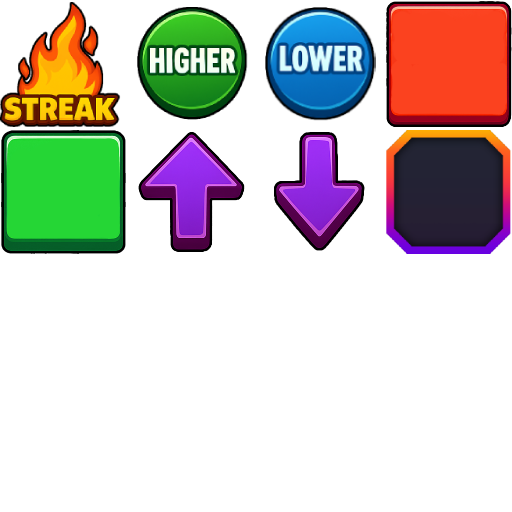
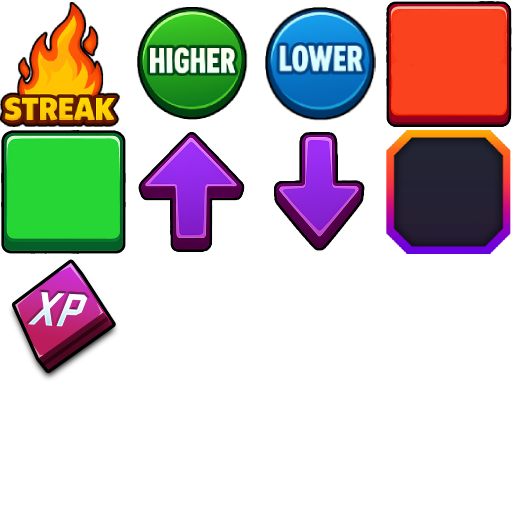
updated sprite sheet

Changed region(s): [[0.0, 0.5, 0.25, 0.75]]

diff --git a/src/scenes/Preload.ts b/src/scenes/Preload.ts
@@ -18,11 +18,6 @@ export default class Preload extends Phaser.Scene {
 
 	editorCreate(): void {
 
-		// guapen
-		const guapen = this.add.image(505.0120544433594, 360, "guapen");
-		guapen.scaleX = 0.32715486817515643;
-		guapen.scaleY = 0.32715486817515643;
-
 		// progressBar
 		const progressBar = this.add.rectangle(553.0120849609375, 361, 256, 20);
 		progressBar.setOrigin(0, 0);
@@ -34,11 +29,6 @@ export default class Preload extends Phaser.Scene {
 		progressBarBg.setOrigin(0, 0);
 		progressBarBg.fillColor = 14737632;
 		progressBarBg.isStroked = true;
-
-		// loadingText
-		const loadingText = this.add.text(552.0120849609375, 329, "", {});
-		loadingText.text = "Loading...";
-		loadingText.setStyle({ "color": "#e0e0e0", "fontFamily": "arial", "fontSize": "20px" });
 
 		this.progressBar = progressBar;
 

diff --git a/src/scenes/Gameplay.ts b/src/scenes/Gameplay.ts
@@ -125,9 +125,9 @@ export default class Gameplay extends Phaser.Scene {
 		streak.scaleY = 1;
 
 		// currency_hyve_xp_3d_1
-		const currency_hyve_xp_3d_1 = this.add.image(34, 34, "currency_hyve_xp_3d_1");
-		currency_hyve_xp_3d_1.scaleX = 0.09017107382001535;
-		currency_hyve_xp_3d_1.scaleY = 0.09017107382001535;
+		const currency_hyve_xp_3d_1 = this.add.image(34, 34, "UiAtlas", 8);
+		currency_hyve_xp_3d_1.scaleX = 0.3374317905217322;
+		currency_hyve_xp_3d_1.scaleY = 0.3374317905217322;
 
 		// XpText
 		const xpText = this.add.text(69, 32, "", {});
